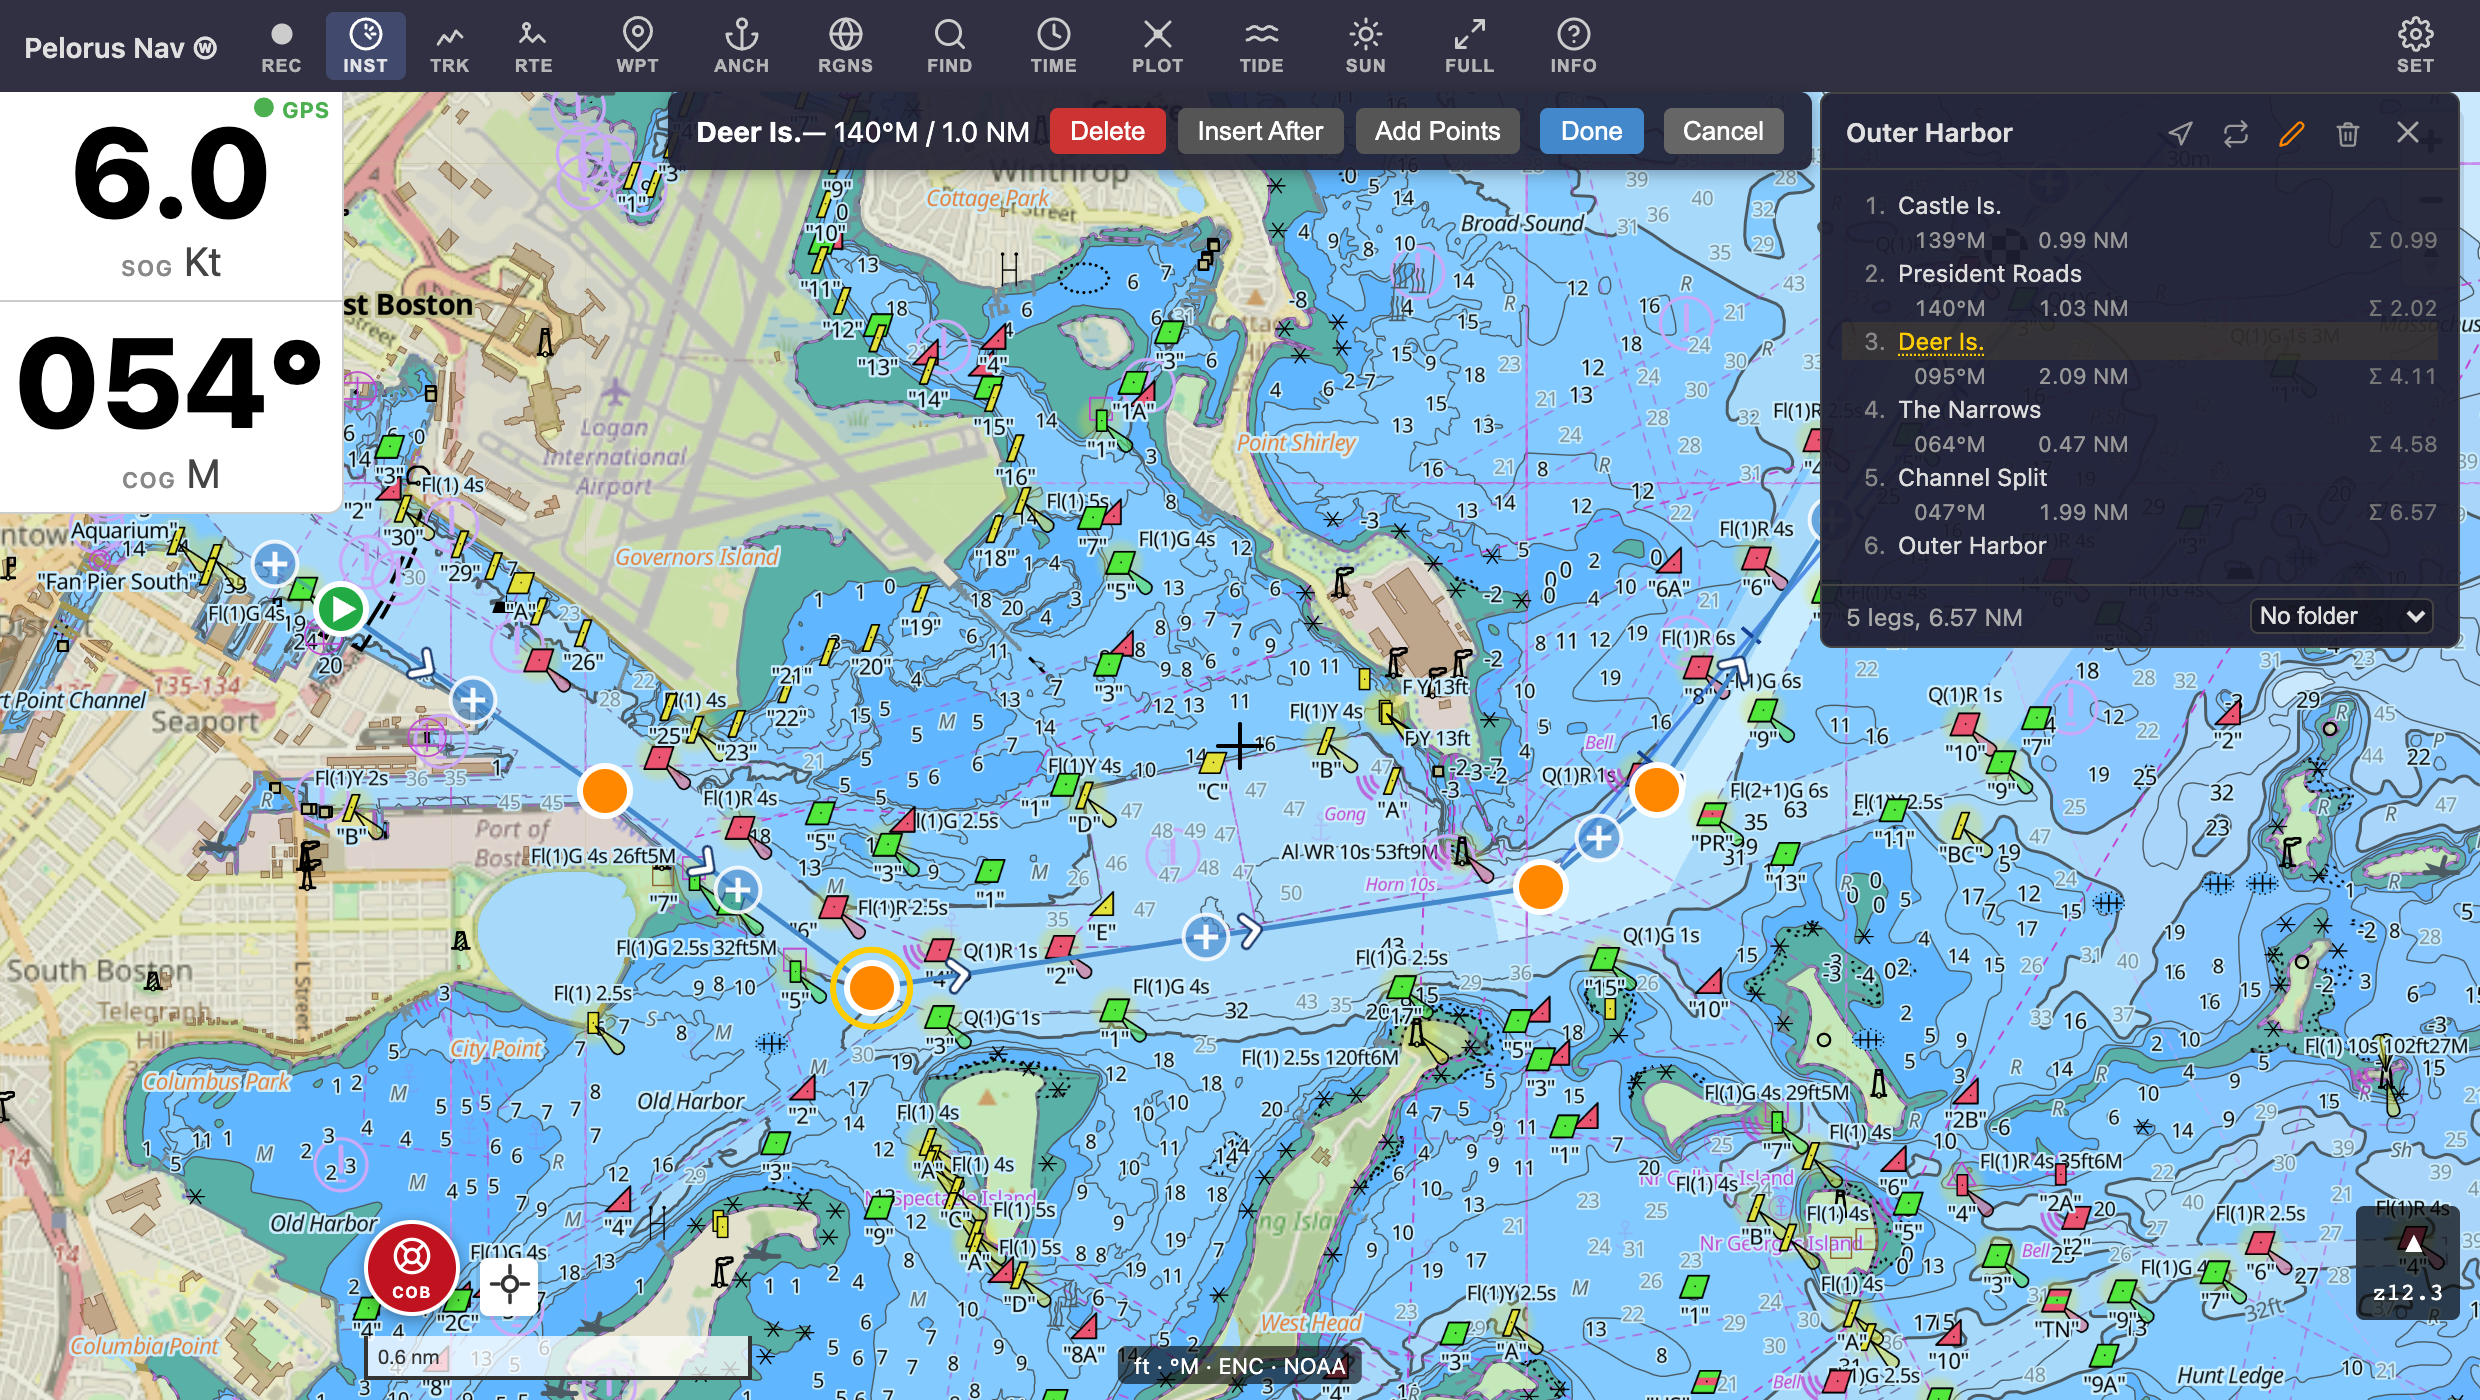
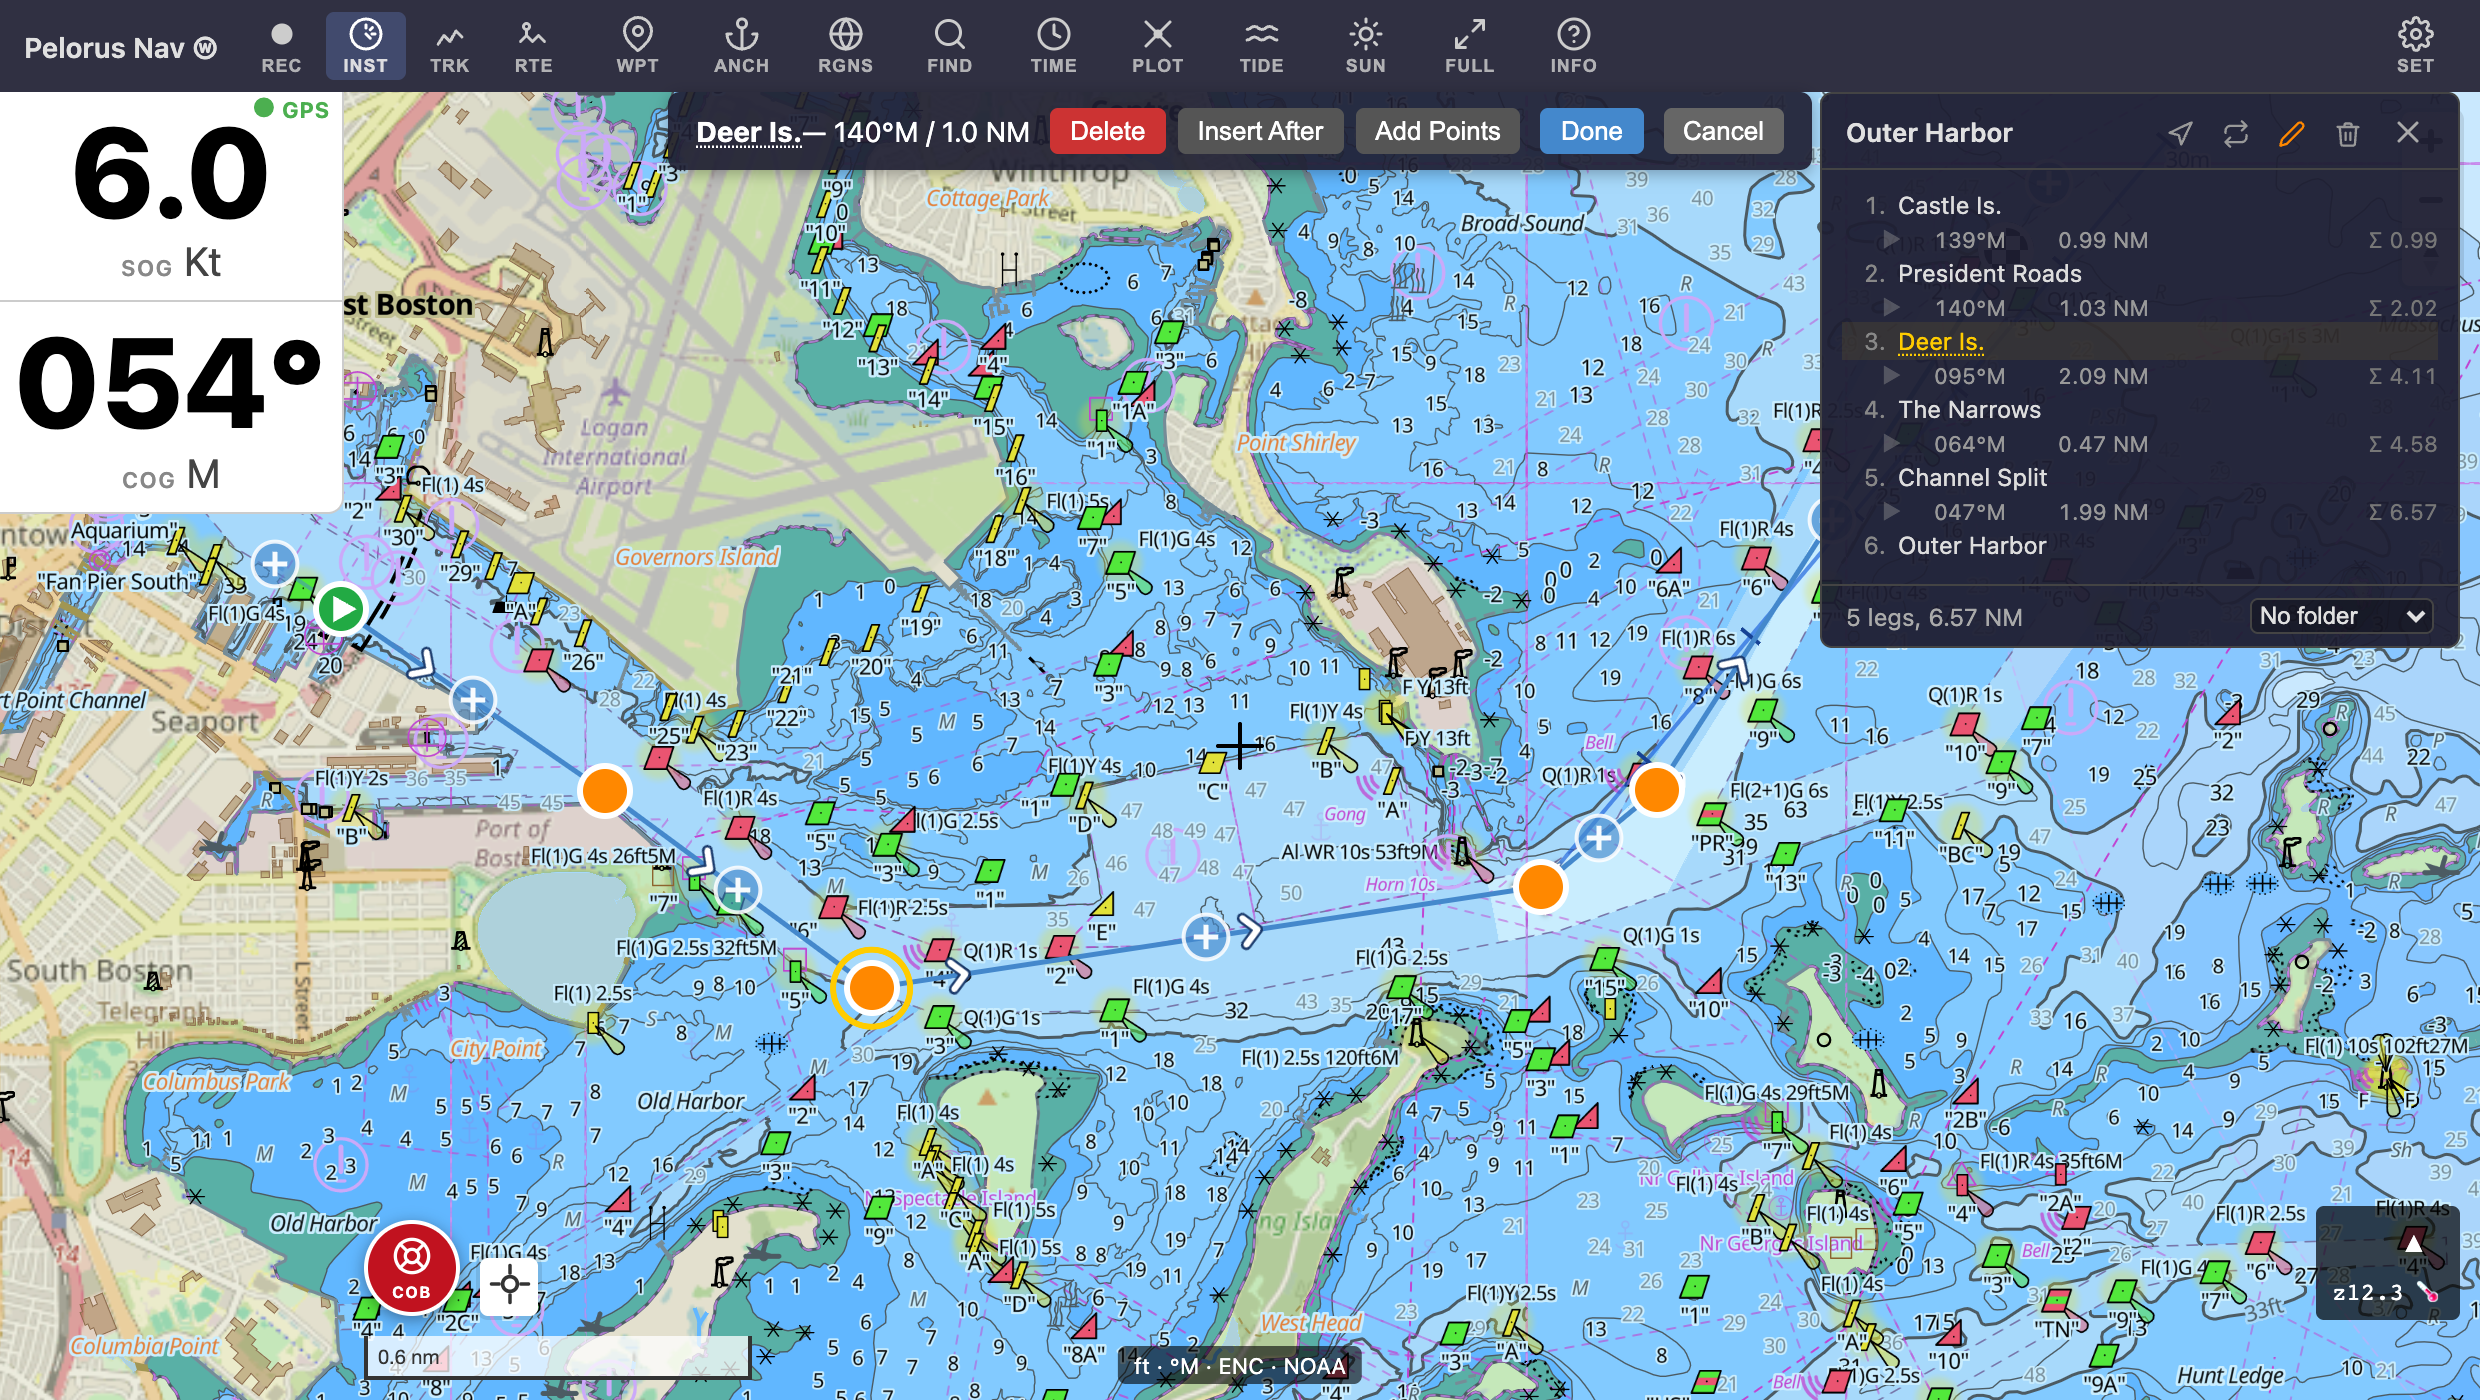
feat(routes): rename a waypoint from the route editor's toolbar
On a phone the detail panel's waypoint list stays closed during an edit,
so there was no way to rename a waypoint while editing. The selected
waypoint's name in the editor bar now opens an inline rename on tap; it
joins the edit session (Undo reverts it, Done saves it).

The guide now gives double-tap as the touch equivalent of every
double-click rename and describes the phone editing layout.

diff --git a/tests/e2e/route-edit-rename.spec.ts b/tests/e2e/route-edit-rename.spec.ts
@@ -1,0 +1,82 @@
+/**
+ * Renaming a waypoint from the route editor's bar: tapping the selected
+ * waypoint's name opens an inline rename. It's the only rename while editing
+ * on a phone, where the detail panel's waypoint list stays closed. The
+ * rename joins the edit session — Undo reverts it, Done saves it.
+ */
+
+import { expect, test } from "@playwright/test";
+import {
+  acceptDisclaimer,
+  type RouteWaypoint,
+  readIndexedDb,
+  type SeedRoute,
+  seedRoute,
+  suppressWhatsNew,
+  waitForAppReady,
+} from "./helpers";
+
+const ROUTE_ID = "e2e-bar-rename-seed";
+
+const SEED_WPS: RouteWaypoint[] = [
+  { lat: 42.33, lon: -71.02, name: "Harbor Exit" },
+  { lat: 42.31, lon: -70.98, name: "Channel Mark" },
+];
+
+test("the editor bar renames the selected waypoint", async ({ page }) => {
+  await suppressWhatsNew(page);
+  await acceptDisclaimer(page);
+  await page.goto("/");
+  await expect(page.locator(".maplibregl-map")).toBeVisible({ timeout: 10000 });
+
+  await waitForAppReady(page);
+  const routesBtn = page.getByRole("button", { name: "Routes" });
+  await routesBtn.click();
+  await seedRoute(page, {
+    id: ROUTE_ID,
+    name: "Seed Route",
+    createdAt: Date.now(),
+    color: "#cc4444",
+    visible: true,
+    waypoints: SEED_WPS,
+  });
+  await page.reload();
+  await expect(page.locator(".maplibregl-map")).toBeVisible({ timeout: 10000 });
+
+  await routesBtn.click();
+  await page
+    .locator(`.manager-item[data-route-id="${ROUTE_ID}"] .manager-item-name`)
+    .click();
+  await page.locator(".route-detail-edit").click();
+  await expect(page.locator(".route-editor-bar")).toBeVisible();
+
+  // Select the second waypoint; the bar shows its name.
+  await page.locator(".route-list-wp.selectable").nth(1).click();
+  const barName = page.locator(".route-editor-bar .route-wp-name");
+  await expect(barName).toHaveText("Channel Mark");
+
+  // Tap the name, type a new one, Enter.
+  await barName.click();
+  const input = page.locator(".route-editor-bar input");
+  await expect(input).toBeFocused();
+  await input.fill("Outer Mark");
+  await input.press("Enter");
+  await expect(barName).toHaveText("Outer Mark");
+
+  // Undo reverts the rename; a second rename sticks through Done.
+  await page.getByRole("button", { name: "Undo" }).click();
+  await expect(barName).toHaveText("Channel Mark");
+  await barName.click();
+  await input.fill("Outer Mark");
+  await input.press("Enter");
+
+  await page.getByRole("button", { name: "Done" }).click();
+  await expect(page.locator(".route-editor-bar")).toBeHidden();
+  const saved = (await readIndexedDb<SeedRoute>(page, "routes")).find(
+    (r) => r.id === ROUTE_ID,
+  );
+  expect(saved?.waypoints.map((w) => w.name)).toEqual([
+    "Harbor Exit",
+    "Outer Mark",
+  ]);
+});

diff --git a/src/map/RouteEditor.ts b/src/map/RouteEditor.ts
@@ -30,6 +30,7 @@ import type { SearchEntry } from "../data/search-index";
 import type { StandaloneWaypoint } from "../data/Waypoint";
 import { findNearestNamedFeature } from "../search/feature-search";
 import { type ChartMode as ChartModeType, getSettings } from "../settings";
+import { startInlineRename } from "../ui/inline-rename";
 import { closeAllSurfaces } from "../ui/SurfaceManager";
 import {
   bboxOfCoords,
@@ -193,6 +194,9 @@ export class RouteEditor {
    *  updateBar rebuilds them only when it changes. Null forces a rebuild
    *  (fresh session). */
   private barActionsKey: string | null = null;
+  /** True while the bar's waypoint name is an open rename input, which a
+   *  readout refresh would otherwise replace mid-typing. */
+  private renamingInBar = false;
   private readonly undoStack = new UndoStack<{
     waypoints: Waypoint[];
     selectedIndex: number | null;
@@ -1425,7 +1429,7 @@ export class RouteEditor {
   /** The bar's readout: the selected waypoint's name and incoming leg, or
    *  the route summary with running total. */
   private updateBarText(): void {
-    if (!this.route) return;
+    if (!this.route || this.renamingInBar) return;
     const wps = this.route.waypoints;
 
     // Selection mode: selected WP info with leg course/distance
@@ -1445,6 +1449,20 @@ export class RouteEditor {
       const strong = document.createElement("strong");
       strong.className = "route-wp-name";
       strong.textContent = label;
+      // Tap to rename — the only rename on a phone, where the detail
+      // panel's waypoint list stays closed during an edit.
+      strong.title = "Tap to rename";
+      strong.addEventListener("click", () =>
+        startInlineRename(strong, label, {
+          setEditing: (editing) => {
+            this.renamingInBar = editing;
+          },
+          onCommit: (name) => {
+            if (name !== label) this.renameWaypoint(idx, name);
+          },
+          refresh: () => this.updateBar(),
+        }),
+      );
       this.barText.appendChild(strong);
       if (legInfo) {
         // Its own element, kept from shrinking (see CSS) so a long name

diff --git a/src/style.css b/src/style.css
@@ -3153,6 +3153,9 @@ body {
    distance/bearing stays pinned at the end within the allotted width. */
 .route-wp-name {
   min-width: 0;
+  cursor: pointer;
+  text-decoration: underline dotted;
+  text-underline-offset: 2px;
   overflow: hidden;
   text-overflow: ellipsis;
   white-space: nowrap;
@@ -3161,6 +3164,12 @@ body {
 .route-wp-leg {
   flex: none;
   white-space: nowrap;
+}
+
+/* The rename input that replaces the name: room to type, while the leg
+   readout keeps its place at the end. */
+.route-editor-text input {
+  min-width: 9em;
 }
 
 /* On a narrow screen the action buttons fill the row and crush the label

diff --git a/docs-site/routes.md b/docs-site/routes.md
@@ -18,14 +18,15 @@ lights, points) when there's one close by, so a route reads like
 preview line follows the cursor to the next tap.
 
 Tap **Done** to save, or **Cancel** to discard. Route names default to
-something sensible; double-click the name (in the Routes panel or the
-route's own panel) to rename.
+something sensible; to rename, double-click the name (double-tap on a
+touch screen) in the Routes panel or the route's own panel.
 
 ## Editing a route
 
 Open **Routes**, and tap the pencil (Edit) on the route's row. The editing
-toolbar appears at the top, and the route's waypoint list stays open
-alongside so you can work by name or by chart:
+toolbar appears at the top (at the bottom on a phone). On a wider screen the
+route's waypoint list stays open alongside, so you can work by name or by
+chart; on a phone it closes to leave the chart clear:
 
 ![Editing a route — a waypoint selected](/images/route-editing.png)
 
@@ -41,10 +42,11 @@ While editing:
   straight to where you want the waypoint** — the point is created and
   follows your finger in one motion. The end markers extend the route,
   before the first waypoint or after the last.
-- **Select** — tap a waypoint (on the chart or in the list) to select it.
-  The toolbar shows its name and leg data, plus **Delete** and
-  **Insert After** buttons.
-- **Rename** — double-click a waypoint's name in the list.
+- **Select** — tap a waypoint (on the chart, or in the list where it's
+  open) to select it. The toolbar shows its name and leg data, plus
+  **Delete** and **Insert After** buttons.
+- **Rename** — select the waypoint, then tap its name in the toolbar. Where
+  the waypoint list is open, double-clicking a name there renames it too.
 - **Undo** — the Undo button (or Ctrl/Cmd-Z) steps back through your edits.
 
 **Done** saves; **Cancel** abandons all changes from this session.
@@ -71,7 +73,8 @@ brings you home.
 
 Selecting a route in the Routes panel opens its detail panel: the full
 waypoint list with each leg's bearing, distance, and cumulative distance —
-a passage plan you can read off directly. The summary at the bottom zooms
+a passage plan you can read off directly. Double-click a waypoint's name
+(double-tap on a touch screen) to rename it. The summary at the bottom zooms
 the chart to the whole route. You can also tap a route right on the chart:
 its info card selects it and has a button to open it in this panel.
 

diff --git a/docs-site/tracks.md b/docs-site/tracks.md
@@ -18,8 +18,8 @@ the native apps, continues in the background with the screen off.
 Open **Tracks** (TRK). Each row shows the track's color, name, and a
 summary — date, duration, distance. From the row you can view it in the
 Track Viewer, export it as GPX, show/hide it on the chart, or delete it.
-Click the color dot to change the track's color; double-click the name to
-rename it. The header buttons import GPX files and export or delete all
+Click the color dot to change the track's color; double-click the name
+(double-tap on a touch screen) to rename it. The header buttons import GPX files and export or delete all
 tracks at once.
 
 A season of recordings gets long, so tracks can go in folders and be worked

diff --git a/CHANGELOG.md b/CHANGELOG.md
@@ -7,6 +7,11 @@ The format follows [Keep a Changelog](https://keepachangelog.com/).
 
 ## [Unreleased]
 
+### Added
+- While editing a route, tap the selected waypoint's name in the editing
+  toolbar to rename it. On a phone, where the waypoint list is hidden during
+  editing, this is the way to rename.
+
 ### Fixed
 - The course line keeps its time ticks when zoomed in close. With the line
   length on Auto, it used to stretch past the screen edge without ticks.
